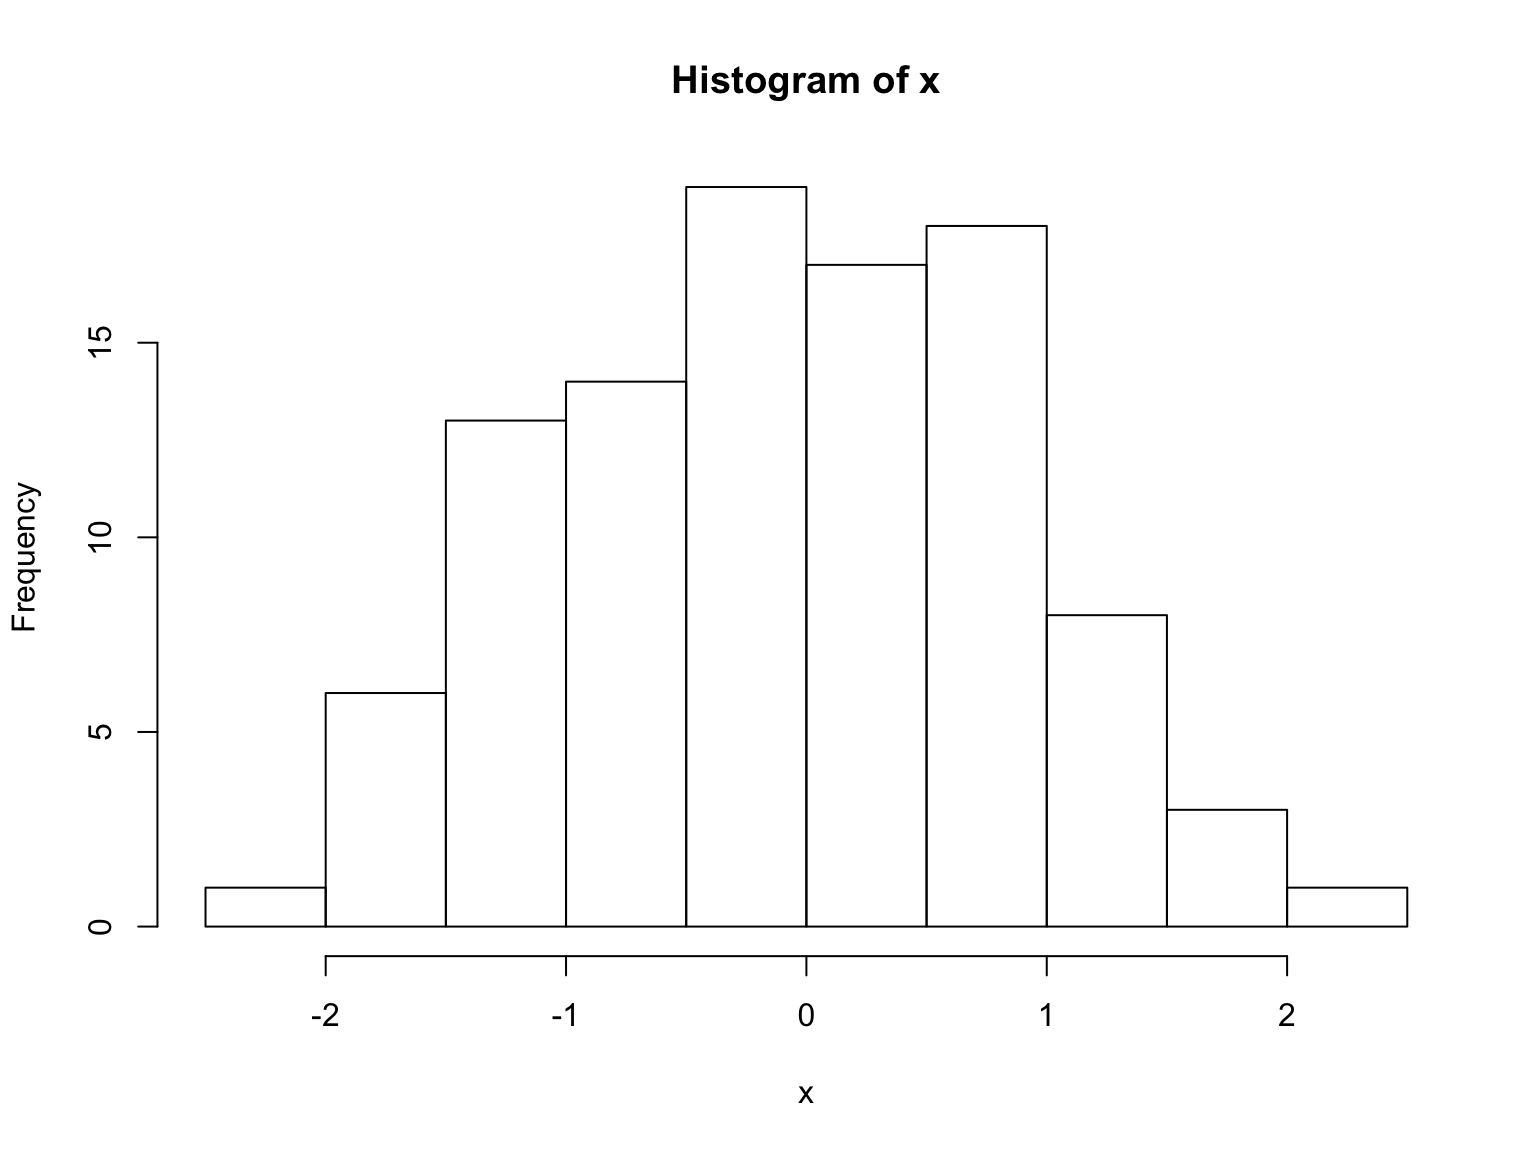
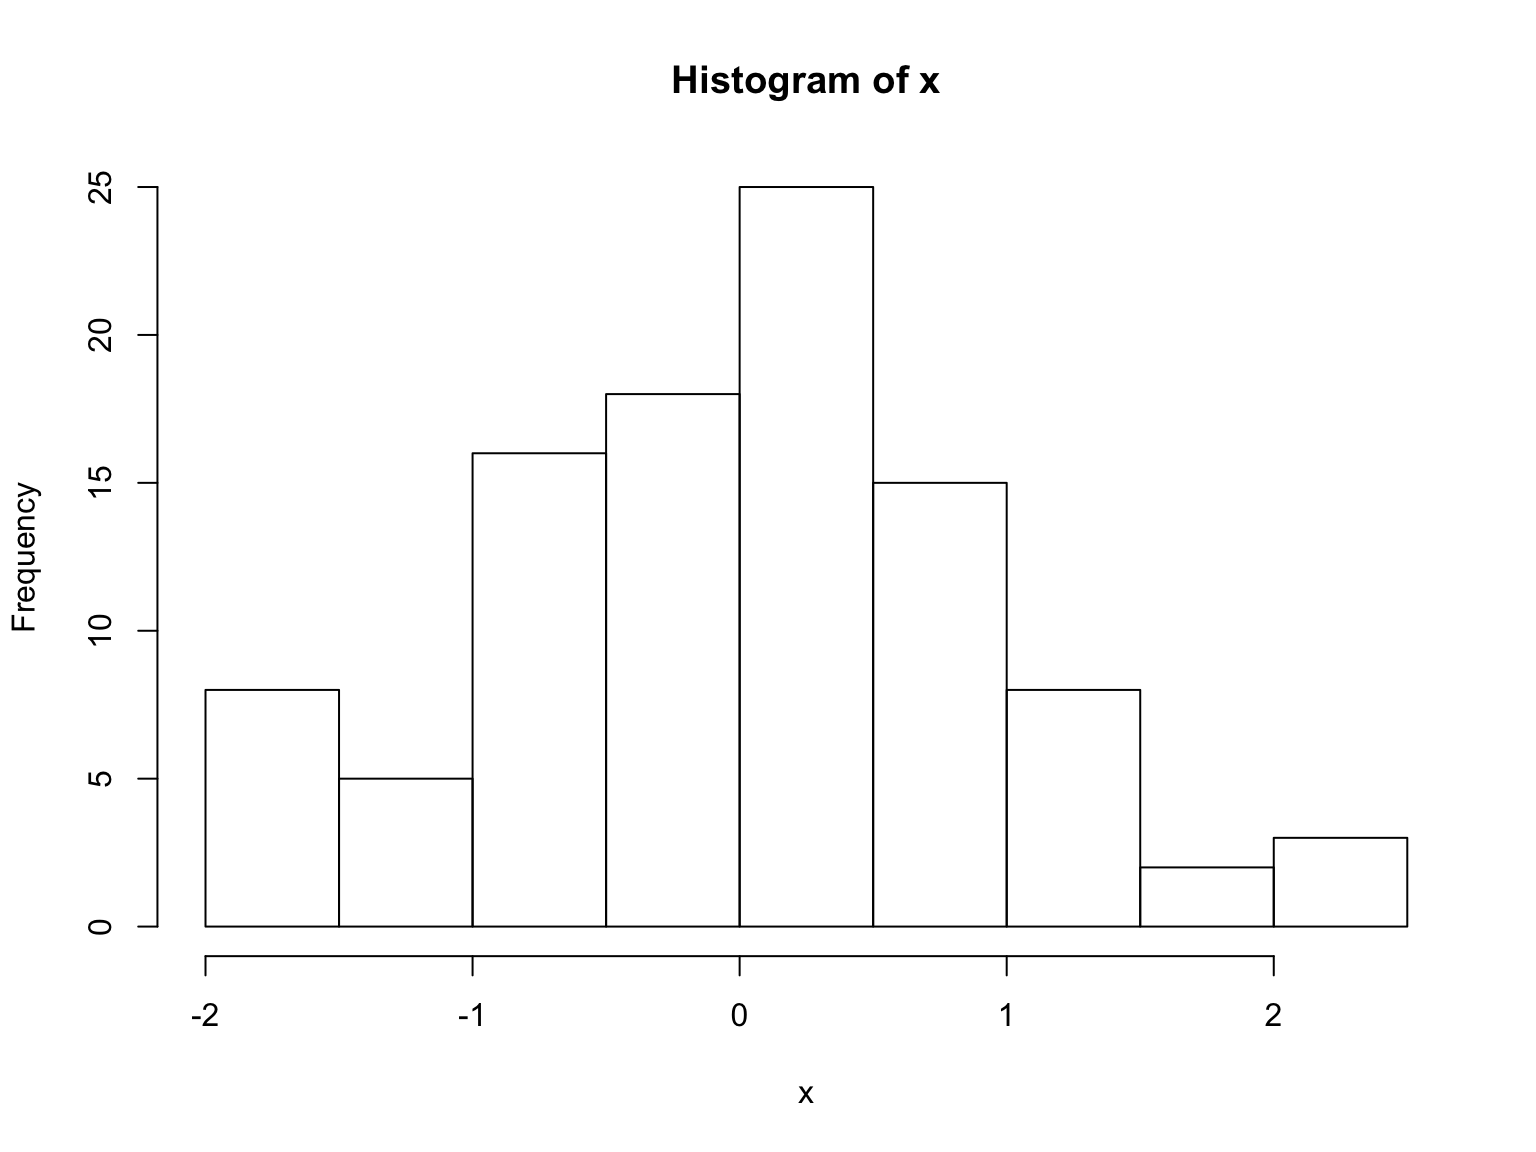
Update

diff --git a/index.html b/index.html
@@ -679,8 +679,8 @@ Wikipedia
 <h2>What to share</h2>
 <ul>
 <li>Data</li>
-<li><a href="https://nyu.databrary.org/volume/144">Displays</a>, <a href="https://nyu.databrary.org/volume/248">materials</a></li>
 <li>Analysis code</li>
+<li><a href="https://nyu.databrary.org/volume/144">Displays</a>, <a href="https://nyu.databrary.org/volume/248">materials</a></li>
 <li><a href="https://play-project.org">Procedure manuals</a></li>
 </ul>
 </section><section id="how-to-share" class="slide level2">
@@ -840,7 +840,7 @@ source(&quot;R/Visualize_data.R&quot;)
 hist(x)</code></pre>
 </section><section id="section" class="slide level2">
 <h2><img src="index_files/figure-revealjs/unnamed-chunk-13-1.png" width="700px" style="display: block; margin: auto;" /></h2>
-<p>The mean is -0.0856124, the range is [-2.0711594, 2.4830203].</p>
+<p>The mean is 0.0243436, the range is [-1.663892, 2.471335].</p>
 </section><section id="ways-to-use-r-markdown" class="slide level2">
 <h2>Ways to use R Markdown</h2>
 <ul>
